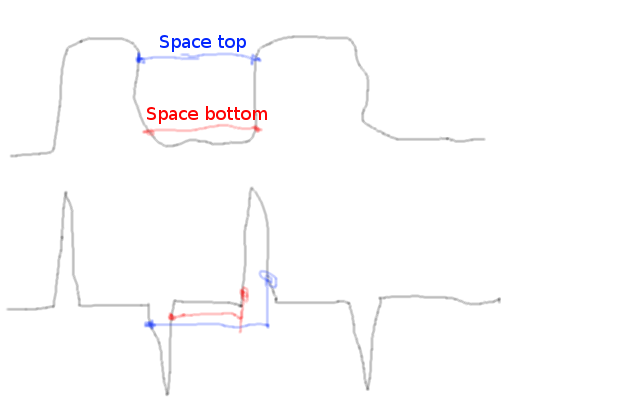
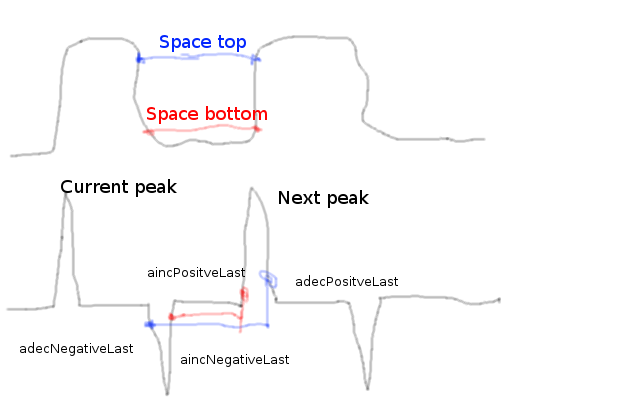
Cleaning before space top and bottom functionality

diff --git a/dektak.py b/dektak.py
@@ -538,7 +538,7 @@ def main():
     #######################################################################################################################
     #######################################################################################################################
 
-    file_name = 't10_1_3_normal.csv'
+    file_name = 't10_1_1_normal.csv'
 
     file_path = '/home/kolan/mycode/python/dektak/data/'
 
@@ -668,6 +668,9 @@ def main():
         abottom = aincNegativeLast[0][0] - aincPositveLast[0][0]
         atop = adecNegativeLast[0][0] - adecPositveLast[0][0]
 
+        #need to save the current and next peak
+        #this is done in the list
+        #after each odd sliceNumber the list need to be reset
         widthBottom.append(abottom)
         widthTop.append(atop)
 
